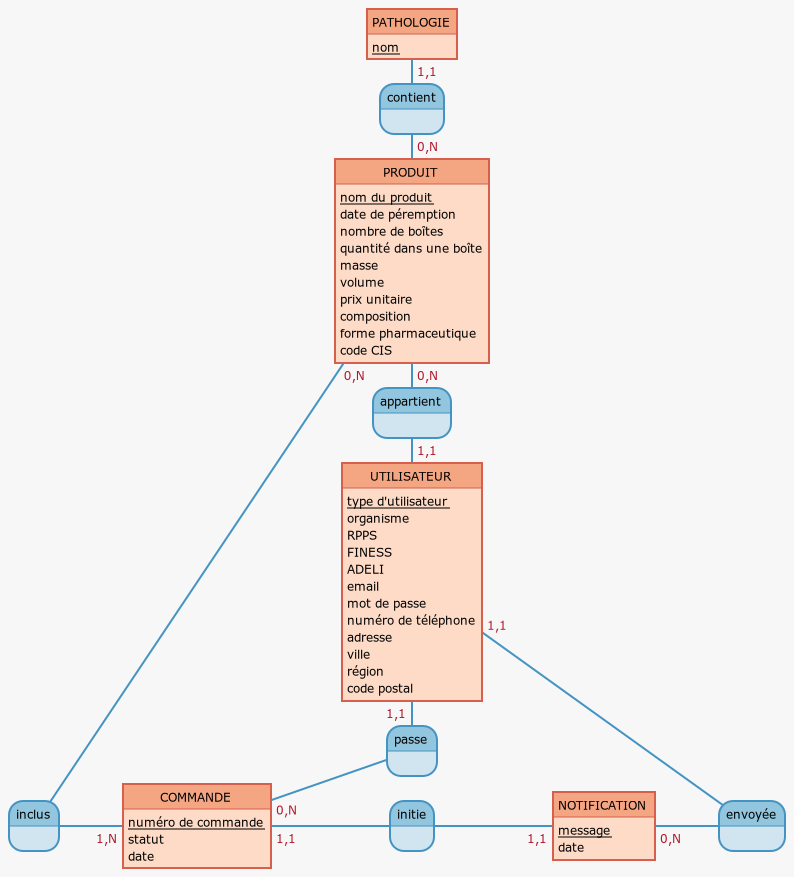
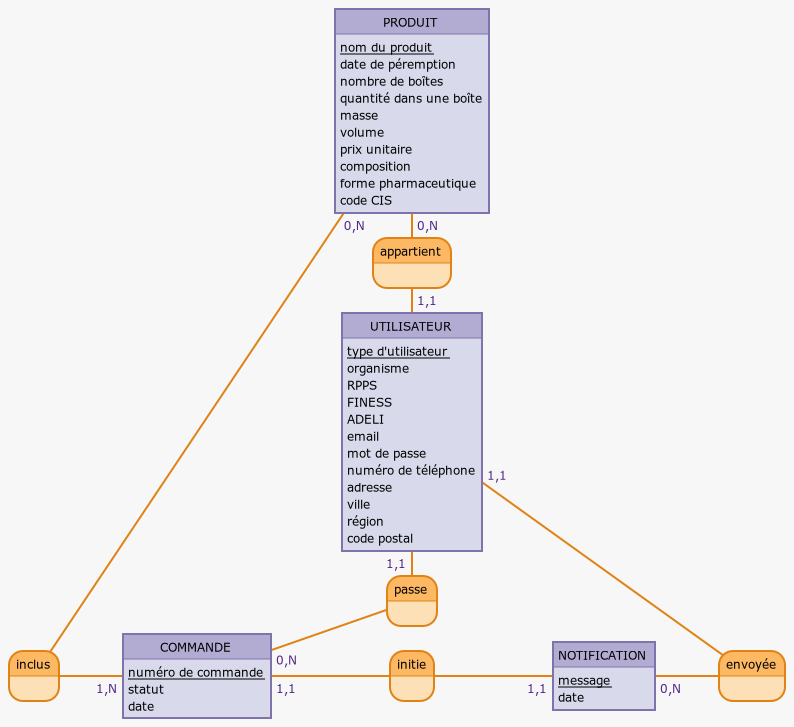
Suppression de la table pathology

diff --git a/conception/MLD.md b/conception/MLD.md
@@ -1,8 +1,6 @@
 
-pathology ( id, name )
-
 product ( id, product_name, expiration_date, number_of_boxes, quantity_in_box, mass, volume, unit_price, composition,   
-        dosage_form cis_code, #user(id), #pathology(id) )
+        dosage_form cis_code, #user(id) )
 
 user ( id, user_type, establishment, rpps, finess, adeli, email, password, phone_number, address, city, region, zip_code ) 
 

diff --git a/conception/MCD.md b/conception/MCD.md
@@ -1,10 +1,4 @@
 
-PATHOLOGIE: nom
-
-:
-contient, 0N PRODUIT, 11 PATHOLOGIE
-
-:
 PRODUIT: nom du produit, date de péremption, nombre de boîtes, quantité dans une boîte, masse, volume, prix unitaire, composition, forme pharmaceutique, code CIS
 :
 
